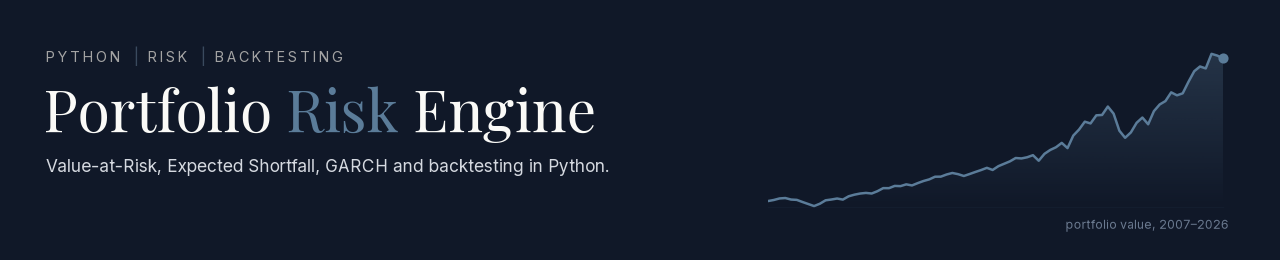
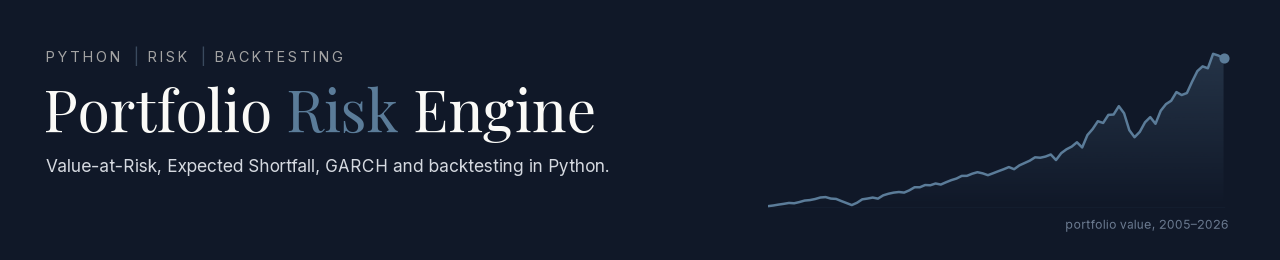
Start the data in 2005 so the backtest covers the 2008 crisis
With data from 2007 the first 750 days went to the GARCH window and the
out-of-sample test began in 2010. GLD trades from November 2004, so
--start 2005-01-01 (now the default) moves the start to 27 Dec 2007.

With 2008 included no model passes every test: FHS-GARCH has the right
exception rate but clusters, FHS-GJR fixes clustering but has too many
exceptions. Historical simulation had 13 exceptions in 2008, FHS-GARCH 4.
README results, reports and banner regenerated on the new period.

diff --git a/main.py b/main.py
@@ -45,7 +45,7 @@ def main() -> None:
     p = argparse.ArgumentParser(description="Portfolio Risk Engine report")
     p.add_argument("--tickers", nargs="+", default=["SPY", "TLT", "GLD", "EFA", "QQQ"])
     p.add_argument("--weights", nargs="+", type=float, default=None)
-    p.add_argument("--start", default="2007-01-01")
+    p.add_argument("--start", default="2005-01-01")
     p.add_argument("--value", type=float, default=1_000_000)
     p.add_argument("--csv", default=None, help="Local CSV of prices instead of downloading")
     p.add_argument("--demo", action="store_true", help="Use simulated data (offline)")

diff --git a/README.md b/README.md
@@ -19,37 +19,44 @@ The GARCH and GJR-GARCH models are implemented from scratch (likelihood, constra
 
 **Does a risk model that reacts to volatility beat plain historical simulation?**
 
-Historical VaR weights the last 250 days equally, so it is slow to rise when a crisis starts and slow to fall afterwards. Its exceptions therefore arrive in clusters. A model can have the right number of exceptions over ten years and still fail when it matters. Filtered Historical Simulation fixes this: it divides returns by their GARCH volatility, takes the quantile of the standardised residuals (which keeps fat tails), and scales by tomorrow's volatility forecast.
+Historical VaR weights the last 250 days equally, so it is slow to rise when a crisis starts and slow to fall afterwards. Its exceptions therefore arrive in clusters. A model can have the right number of exceptions over ten years and still fail when it matters. Filtered Historical Simulation is designed to fix this: it divides returns by their GARCH volatility, takes the quantile of the standardised residuals (which keeps fat tails), and scales by tomorrow's volatility forecast.
 
 `python main.py` puts both models through the same out-of-sample period and writes the verdict to [`reports/summary.md`](reports/summary.md): exception counts, p-values of the coverage and independence tests, the Basel zone and the ES backtest.
 
 ## Results
 
-Portfolio: SPY 35%, TLT 25%, GLD 10%, EFA 15%, QQQ 15%. Daily Yahoo Finance prices, January 2007 to November 2026. The out-of-sample backtest runs from January 2010 (after the first 750-day GARCH window), 4,248 days in total, the same period for every method.
+Portfolio: SPY 35%, TLT 25%, GLD 10%, EFA 15%, QQQ 15%. Daily Yahoo Finance prices, January 2005 to November 2026 (GLD starts trading in November 2004). The out-of-sample backtest starts on 27 December 2007, after the first 750-day GARCH window, so **the 2008 crisis is inside the test**. It covers 4,751 days, the same period for every method.
 
-**99% VaR backtest** (42.5 exceptions expected)
+**99% VaR backtest** (47.5 exceptions expected)
 
-| Method | Exceptions | Kupiec p | Independence p | Cond. coverage p |
-|---|---:|---:|---:|---:|
-| Historical simulation | 58 | 0.023 | 0.0001 | 0.0000 |
-| Parametric normal | 88 | 0.000 | 0.0000 | 0.0000 |
-| Parametric Student-t | 62 | 0.005 | 0.0000 | 0.0000 |
-| FHS-GARCH | 54 | 0.088 | 0.005 | 0.005 |
-| **FHS-GJR-GARCH** | **53** | **0.118** | **0.032** | **0.030** |
+| Method | Exceptions | of which in 2008 | Kupiec p | Independence p | Cond. coverage p |
+|---|---:|---:|---:|---:|---:|
+| Historical simulation | 71 | 13 | 0.001 | 0.0001 | 0.000 |
+| Parametric normal | 104 | 16 | 0.000 | 0.0000 | 0.000 |
+| Parametric Student-t | 74 | 12 | 0.000 | 0.0000 | 0.000 |
+| FHS-GARCH | 59 | 4 | **0.106** | 0.0065 | 0.007 |
+| FHS-GJR-GARCH | 63 | 6 | 0.032 | **0.062** | 0.017 |
 
 **97.5% Expected Shortfall backtest** (Acerbi-Szekely Z2, 0 for a correct model, reject below −0.7)
 
-| Method | Z2 | Exceptions (106 expected) |
+| Method | Z2 | Exceptions (119 expected) |
 |---|---:|---:|
-| Historical simulation | −0.35 | 131 |
-| FHS-GARCH | −0.06 | 109 |
-| FHS-GJR-GARCH | −0.07 | 110 |
+| Historical simulation | −0.43 | 155 |
+| FHS-GARCH | −0.11 | 129 |
+| FHS-GJR-GARCH | −0.10 | 127 |
 
-**Verdict.** Volatility filtering works. Both FHS models pass the Kupiec test, and their ES is almost exactly right (Z2 ≈ 0, against −0.35 for historical simulation, which underestimates tail losses). The normal model fails badly: it produces twice the expected number of exceptions. Exception clustering is the harder problem. Plain GARCH(1,1) cuts it a lot (the independence p-value rises from 0.0001 to 0.005), but in March 2020 volatility jumped faster than the model could follow.
+**Verdict.** Volatility filtering clearly beats historical simulation, and 2008 shows it most clearly. Historical VaR had 13 exceptions that year, five times the expected 2.5, because its 250-day window was still full of calm 2007 days. FHS-GARCH had 4. Over the whole period the FHS models cut exceptions from 71 to about 60, and they bring Z2 from −0.43 to −0.10: historical simulation understates the size of tail losses, FHS gets it nearly right. The normal model fails badly, with more than twice the expected number of exceptions.
 
-**Second step: asymmetric volatility.** In equity-heavy portfolios, falls raise volatility more than rallies of the same size (the leverage effect). GJR-GARCH adds a term γ·ε² that applies only after negative returns. On the full sample the asymmetry is strong. The estimates are α = 0.007 and γ = 0.142: almost all the volatility response comes from down days. The likelihood-ratio statistic against plain GARCH is 136 (5% critical value 3.84), and AIC falls by 134. Out of sample, FHS-GJR has the best coverage of all methods (Kupiec p = 0.12), and the independence p-value rises again, from 0.005 to 0.032. It is close to the 5% line but still below it. Some clustering remains. The likely causes are a single-asset volatility model and constant correlations, which a multivariate model (DCC) would address.
+No model passes every test, and the two GARCH variants fail in opposite ways:
 
-Other numbers from the same run: GARCH persistence is 0.984 (volatility shocks have a half-life of 43 days). SPY, QQQ and EFA account for 95% of parametric 99% VaR, while TLT, with a 25% weight, adds only 0.5% because of its low correlation with equities. The worst historical scenario is the 2008 Lehman collapse (−27%), closely followed by the 2022 rates shock (−26%), when bonds fell together with equities. Full output: [`reports/summary.md`](reports/summary.md).
+- **FHS-GARCH** has the right number of exceptions (Kupiec p = 0.11), but they still cluster (independence p = 0.007). In March 2020 volatility jumped faster than the model could follow.
+- **FHS-GJR-GARCH** fixes the clustering (independence p = 0.06). In equity-heavy portfolios falls raise volatility more than rallies of the same size (the leverage effect), and GJR adds a term γ·ε² that applies only after negative returns. The asymmetry is strong. The estimates are α = 0.006 and γ = 0.141, so almost all the volatility response comes from down days. The likelihood-ratio statistic against plain GARCH is 152 (5% critical value 3.84). The cost is too many exceptions overall (63, Kupiec p = 0.03). After calm stretches GJR lets VaR fall further, so sudden drops from low volatility catch it out.
+
+Both results point to the same next step. A univariate model on portfolio returns cannot see correlations move, and a multivariate model (DCC) is the natural extension.
+
+Other numbers from the same run: SPY, QQQ and EFA account for 95% of parametric 99% VaR, while TLT, with a 25% weight, adds less than 1% because of its low correlation with equities. The worst historical scenario is the 2008 Lehman collapse (−27%), closely followed by the 2022 rates shock (−26%), when bonds fell together with equities. Full output: [`reports/summary.md`](reports/summary.md).
+
+![Risk contribution](reports/risk_contribution.png)
 
 ## Quick start
 
@@ -57,7 +64,7 @@ Other numbers from the same run: GARCH persistence is 0.984 (volatility shocks h
 pip install -r requirements.txt
 
 # Full report on real market data (downloads prices from Yahoo Finance)
-python main.py --tickers SPY TLT GLD EFA QQQ --weights 0.35 0.25 0.10 0.15 0.15 --start 2007-01-01
+python main.py --tickers SPY TLT GLD EFA QQQ --weights 0.35 0.25 0.10 0.15 0.15 --start 2005-01-01
 
 python main.py --demo      # offline, simulated fat-tailed prices with volatility clustering
 streamlit run app.py       # interactive dashboard
@@ -78,8 +85,6 @@ main.py          command-line report, charts and reports/summary.md
 app.py           Streamlit dashboard
 tests/           formula checks, parameter recovery, no-look-ahead check, power of the tests
 ```
-
-![Risk contribution](reports/risk_contribution.png)
 
 ## Methodology
 
@@ -104,7 +109,7 @@ Every forecast uses only data available before the forecast day. GARCH parameter
 
 - Weights are constant (rebalanced daily). Options and other non-linear positions would need full revaluation.
 - GARCH and GJR-GARCH are fitted to portfolio returns (univariate). A multivariate model (DCC) would let correlations move in a crisis.
-- Some exception clustering remains even with GJR-GARCH (independence p = 0.03), concentrated in March 2020.
+- No model passes all three coverage tests: FHS-GARCH still clusters exceptions, and FHS-GJR-GARCH has too many of them.
 - The −0.7 threshold for Z2 is the approximation reported by Acerbi and Szekely. A simulated critical value would be more exact.
 
 ---

diff --git a/reports/summary.md b/reports/summary.md
@@ -2,53 +2,53 @@
 
 Portfolio: SPY 35%, TLT 25%, GLD 10%, EFA 15%, QQQ 15%
 
-Data: Yahoo Finance prices from 2007-01-03 to 2026-11-13
+Data: Yahoo Finance prices from 2005-01-03 to 2026-11-13
 
 ## 1-day VaR / ES (portfolio value 1,000,000)
 
 ```
-          Historical  Parametric (normal)  Parametric (Student-t)  Monte Carlo (t, df=5)  FHS-GARCH (conditional)
-VaR 95%  11,914.0000          12,796.0000             10,959.0000            11,992.0000              18,353.0000
-VaR 99%  21,560.0000          18,259.0000             21,508.0000            20,554.0000              30,258.0000
-ES 97.5% 23,923.0000          18,351.0000             23,819.0000            21,414.0000              31,090.0000
+         Historical Parametric (normal) Parametric (Student-t) Monte Carlo (t, df=5) FHS-GARCH (conditional)
+VaR 95%      11,407              12,425                 10,671                11,641                  17,959
+VaR 99%      21,281              17,737                 20,746                19,902                  29,284
+ES 97.5%     23,135              17,826                 22,876                20,804                  30,238
 ```
 
 ## GARCH(1,1)
 
-alpha 0.112, beta 0.872, persistence 0.984, half-life 43 days
+alpha 0.106, beta 0.876, persistence 0.983, half-life 40 days
 
-GJR-GARCH: alpha 0.007, gamma 0.142, beta 0.904; AIC 9,781.5 vs 9,915.6 for GARCH
+GJR-GARCH: alpha 0.006, gamma 0.141, beta 0.904; AIC 10,495.9 vs 10,646.3 for GARCH
 
 ## Backtest, 99% VaR
 
 ```
            exceptions expected kupiec_p independence_p cond_coverage_p last_250_exceptions basel_zone
-historical         58  42.5000   0.0234         0.0001          0.0000                   2      green
-normal             88  42.5000   0.0000         0.0000          0.0000                   5     yellow
-t                  62  42.5000   0.0048         0.0000          0.0000                   2      green
-fhs_garch          54  42.5000   0.0882         0.0050          0.0045                   6     yellow
-fhs_gjr            53  42.5000   0.1183         0.0318          0.0295                   5     yellow
+historical         71     47.5   0.0014         0.0001          0.0000                   2      green
+normal            104     47.5   0.0000         0.0000          0.0000                   5     yellow
+t                  74     47.5   0.0004         0.0000          0.0000                   2      green
+fhs_garch          59     47.5   0.1064         0.0065          0.0067                   6     yellow
+fhs_gjr            63     47.5   0.0315         0.0616          0.0172                   5     yellow
 ```
 
 ## ES backtest, 97.5% (Z2)
 
 ```
-                Z2 exceptions expected reject_5pct
-historical -0.3464        131 106.2000       False
-fhs_garch  -0.0636        109 106.2000       False
-fhs_gjr    -0.0747        110 106.2000       False
+                Z2 exceptions expected  reject_5pct
+historical  -0.427        155    118.8        False
+fhs_garch   -0.108        129    118.8        False
+fhs_gjr     -0.101        127    118.8        False
 ```
 
 ## Historical stress
 
 ```
-                                      days  portfolio_return           pnl  max_drawdown_in_window
-scenario                                                                                          
-GFC: Lehman collapse (Sep-Nov 2008)     58           -0.2735 -273,456.5116                 -0.2683
-Euro sovereign crisis (Jul-Sep 2011)    64           -0.0160  -16,013.1128                 -0.0795
-China devaluation (Aug 2015)            16           -0.0375  -37,465.0381                 -0.0691
-Volmageddon (Feb 2018)                  10           -0.0701  -70,056.0609                 -0.0764
-COVID crash (Feb-Mar 2020)              24           -0.1854 -185,427.9447                 -0.1973
-2022 rates shock (Jan-Oct 2022)        196           -0.2585 -258,516.7033                 -0.2558
-SVB / regional banks (Mar 2023)          8            0.0151   15,100.0673                 -0.0086
+                                     days portfolio_return       pnl max_drawdown_in_window
+scenario                                                                                   
+GFC: Lehman collapse (Sep-Nov 2008)    58           -27.3%  -273,456                 -26.8%
+Euro sovereign crisis (Jul-Sep 2011)   64            -1.6%   -16,013                  -8.0%
+China devaluation (Aug 2015)           16            -3.7%   -37,465                  -6.9%
+Volmageddon (Feb 2018)                 10            -7.0%   -70,056                  -7.6%
+COVID crash (Feb-Mar 2020)             24           -18.5%  -185,428                 -19.7%
+2022 rates shock (Jan-Oct 2022)       196           -25.9%  -258,517                 -25.6%
+SVB / regional banks (Mar 2023)         8             1.5%    15,100                  -0.9%
 ```
